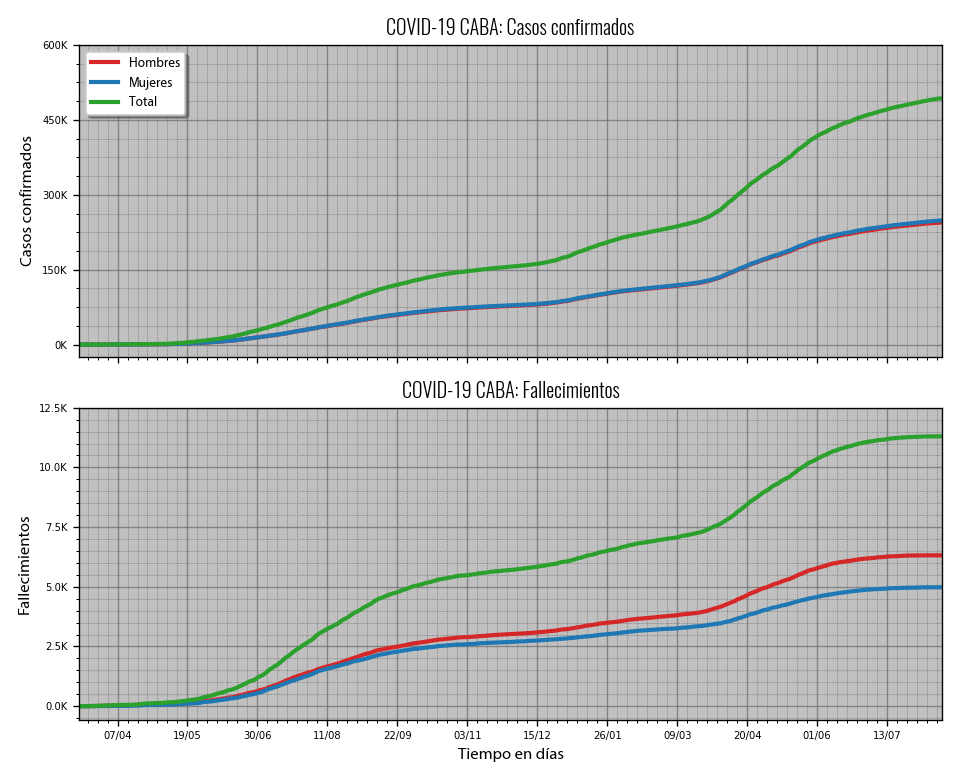
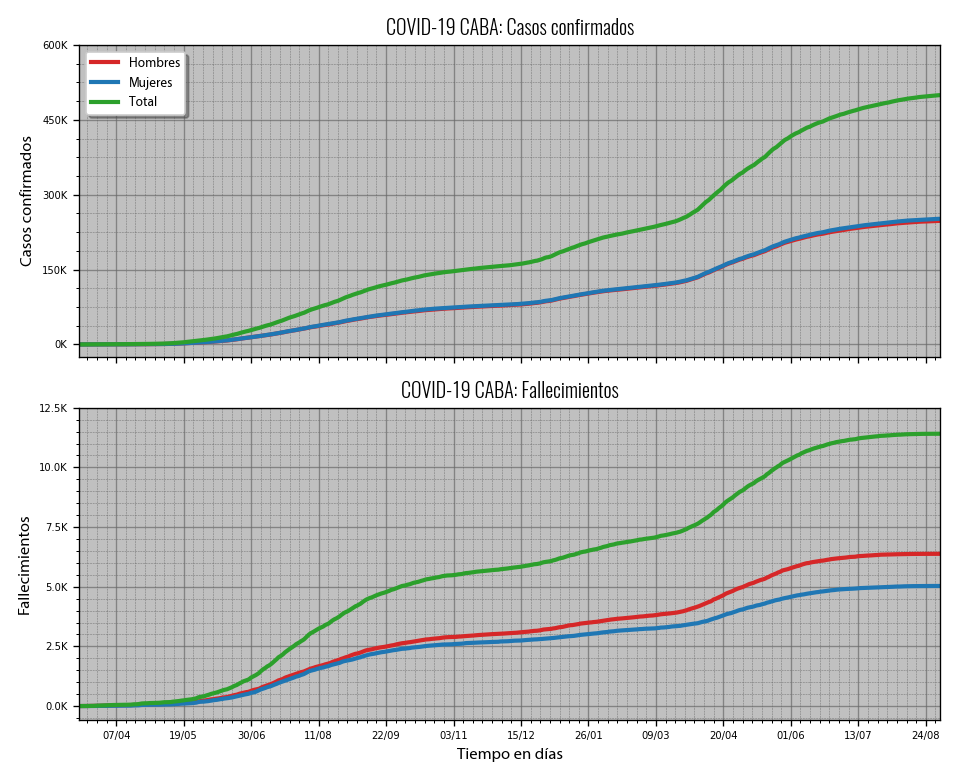
Updating charts...

Changed region(s): [[0.0938, 0.4923, 1.0, 0.9846], [0.0625, 0.0615, 1.0, 0.4615]]

diff --git a/chart_config.py b/chart_config.py
@@ -26,7 +26,7 @@ language = 1 #0 = english, 1 = spanish
 legend_text_size = 8
 plot_scale = "linear"
 start_date = "2020-11-01"
-end_date = "2021-08-15"
+end_date = "2021-09-02"
 week_interval = 3
 v_start_date = "2021-01-01"
 v_week_interval = 2
